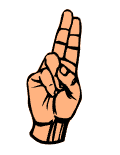
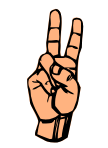
add tutorial.css tutorial.js

Changed region(s): [[0.1944, 0.0541, 0.7778, 0.973]]

diff --git a/static/scripts/tutorial.js b/static/scripts/tutorial.js
@@ -1,3 +1,4 @@
+
 const alphabetLetters = 'ABCDEFGHIJKLMNOPQRSTUVWXYZ';
 const alphabetButtonsContainer = document.querySelector('.alphabet-buttons');
 const demoImage = document.getElementById('demo-image');
@@ -6,8 +7,6 @@ const handShapeExplanation = document.getElementById('hand-shape-explanation');
 const recognitionResult = document.getElementById('recognition-result');
 const userScore = document.getElementById('user-score');
 
-let path = window.location.pathname;
-const directoryPath = path.substring(0, path.lastIndexOf("/"));
 
 let currentLetter = '';
 let userName = 'User'; // This should be set by user input or login
@@ -23,6 +22,35 @@ alphabetLetters.split('').forEach(letter => {
     alphabetButtonsContainer.appendChild(button);
 });
 
+const handShapeExplanations = [
+    "A: Closed fist with thumb on top of fingers",
+    "B: Flat hand with fingers together, thumb out",
+    "C: Curved hand with fingers and thumb forming a 'C' shape",
+    "D: Pointing hand with index finger extended, other fingers closed",
+    "E: Flat hand with fingers spread apart, thumb in",
+    "F: Closed fist with thumb on top of fingers, index finger extended",
+    "G: Closed fist with thumb on top of fingers, middle finger extended",
+    "H: Flat hand with fingers together, thumb out, index and middle fingers extended",
+    "I: Pinky finger extended, other fingers closed",
+    "J: Pinky finger extended, thumb and index finger touching",
+    "K: Flat hand with fingers together, thumb out, index and middle fingers crossed",
+    "L: Flat hand with fingers together, thumb in, index finger extended",
+    "M: Closed fist with thumb on top of fingers, ring and pinky fingers extended",
+    "N: Closed fist with thumb on top of fingers, middle and ring fingers extended",
+    "O: Circular hand shape with fingers and thumb forming a circle",
+    "P: Flat hand with fingers together, thumb out, index finger extended",
+    "Q: Closed fist with thumb on top of fingers, index and middle fingers extended",
+    "R: Crossed fingers with thumb on top",
+    "S: Flat hand with fingers together, thumb in",
+    "T: Flat hand with fingers together, thumb out, index finger extended",
+    "U: Closed fist with thumb on top of fingers, index and middle fingers extended",
+    "V: 'V' shape with index and middle fingers extended",
+    "W: 'W' shape with ring and pinky fingers extended",
+    "X: Closed fist with thumb on top of fingers, index finger extended",
+    "Y: Pinky finger extended, thumb and index finger touching",
+    "Z: Closed fist with thumb on top of fingers, middle and ring fingers extended"
+  ];
+
 function selectLetter(letter) {
     // Reset all buttons to default color
     document.querySelectorAll('.alphabet-button').forEach(btn => {
@@ -36,9 +64,11 @@ function selectLetter(letter) {
     selectedButton.classList.add('selected');
 
     // Dynamically update the demo image source using Django static files
-    demoImage.src = "{% static 'images/tutorial/' %}" + letter.toLowerCase() + ".png";
+    demoImage.src = tutorialImagesUrl + letter.toLowerCase() + ".png";
+  
     demoImage.alt = `ASL hand shape for letter ${letter}`;
-    handShapeExplanation.textContent = `Demonstrating hand shape for letter ${letter}`;
+    //handShapeExplanation.textContent = `Demonstrating hand shape for letter ${letter}`;
+    handShapeExplanation.textContent = handShapeExplanations[alphabetLetters.indexOf(letter)];
 }
 
 async function startWebcam() {

diff --git a/templates/tutorial.html b/templates/tutorial.html
@@ -40,8 +40,10 @@
                 </div>
             </div>
         </div>
-
-        <script src="{% static 'scripts/tutorial.js' %}"> </script>
+        <script>
+            var tutorialImagesUrl = "{%static 'images/tutorial/' %}";
+        </script>
+        <script src="{% static 'scripts/tutorial.js' %}">    </script>
 
     </body>
 </html>
